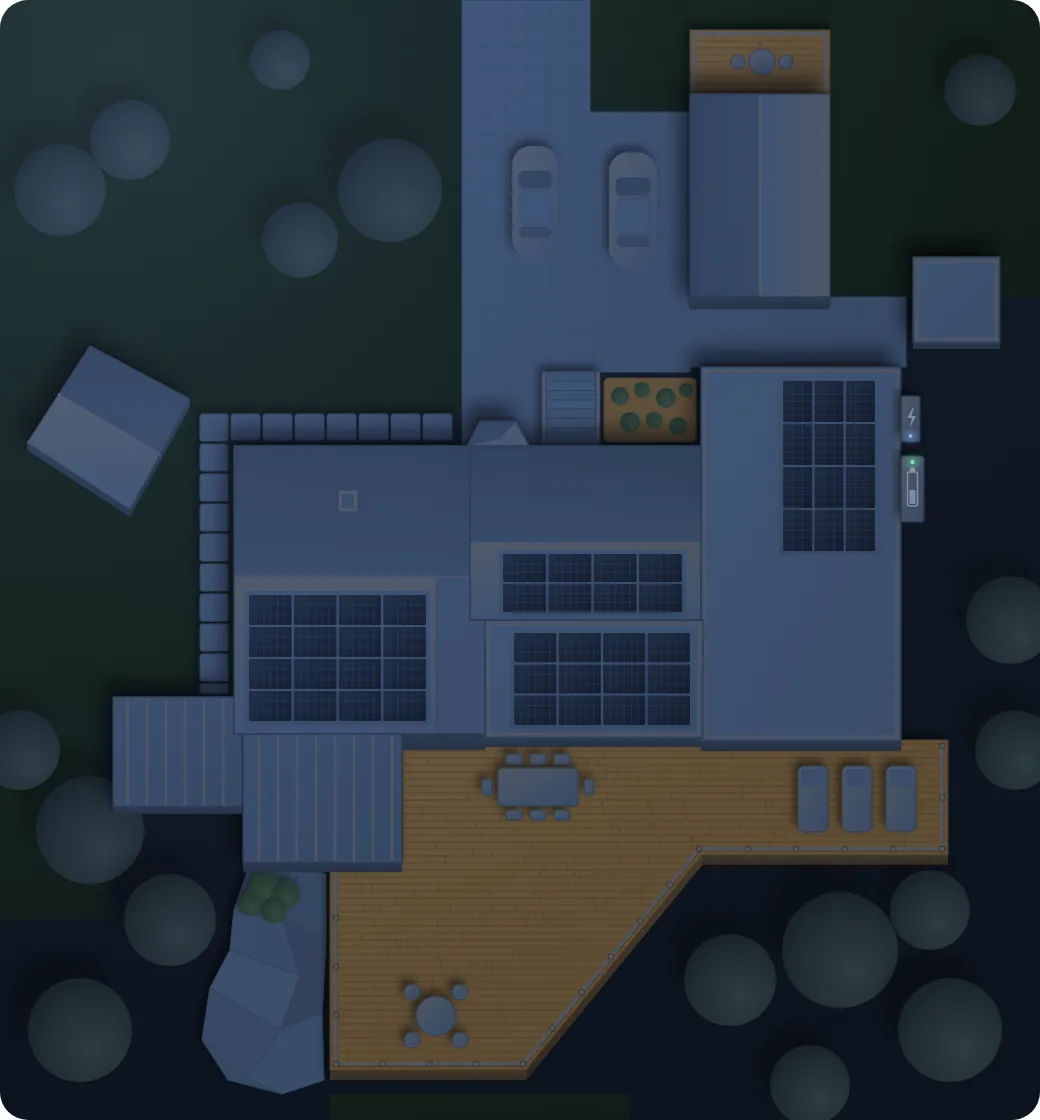
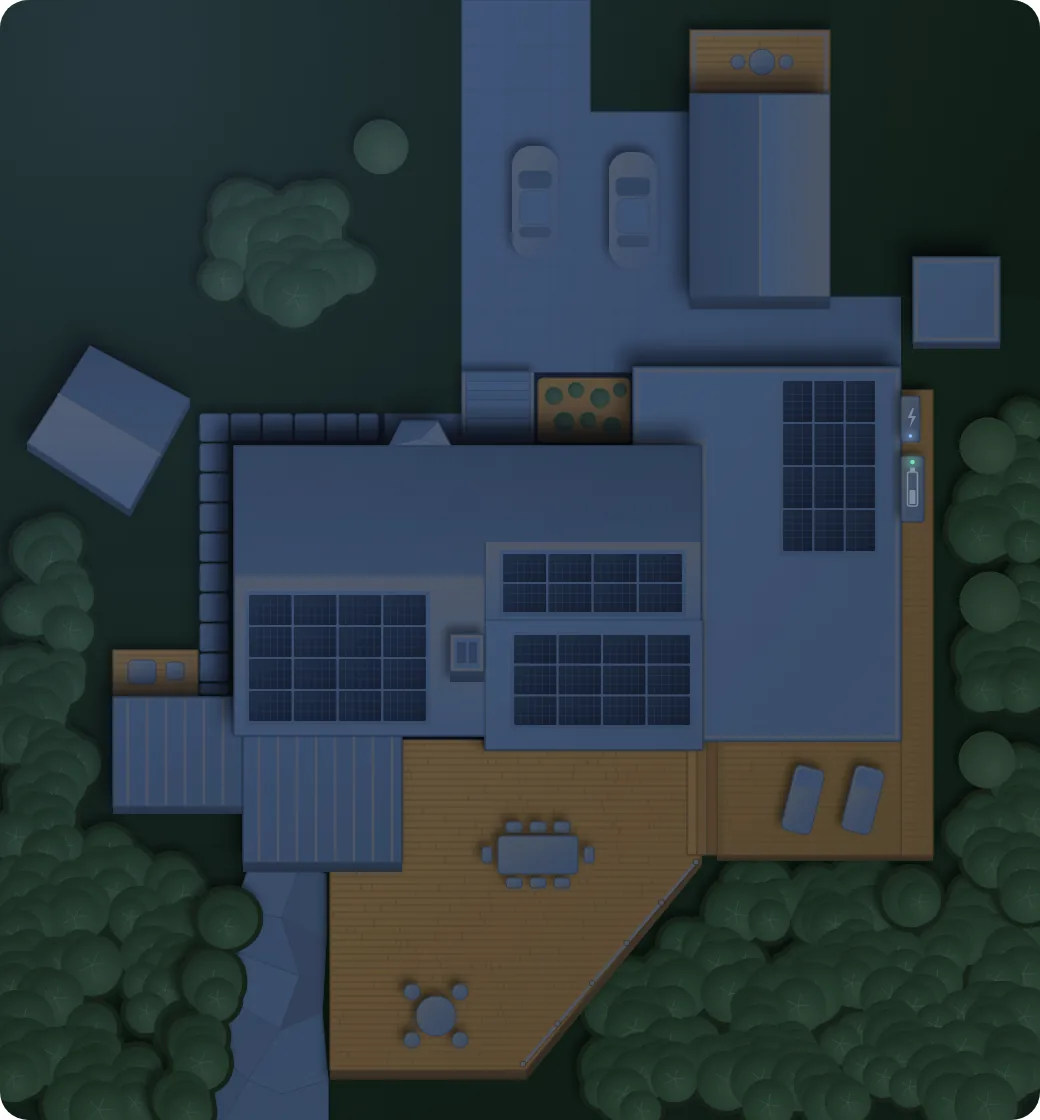
v813: nya husbilder; fönster och deras ljus döljs under taken
Ägarens uppdaterade dag- och nattbild (poolrummet större, däck på östra
sidan, nya träd). Takens konturer (HUS_TAK) används som mask för ljuset från
fönster och glasdörrar: skenet ritas bara utanför taken, så ett fönster som
ligger lite indraget hamnar under taket. Redigeraren använder samma mask.

Claude-Session: https://claude.ai/code/session_012MMThXfJhAShsvner6HS5D

diff --git a/js/start.js b/js/start.js
@@ -2611,7 +2611,7 @@ var _beType='dev',_beIcon=null,_beLabel=null,_beDev=null,_beAct=null,_beFlow=nul
 var _beIdx=null;
 
 /* ===== konfiguration (kugghjulet uppe till höger, sedan v675) ===== */
-const APP_VERSION='v812';
+const APP_VERSION='v813';
 const CFG_DEF={paNu:true,wxRubrik:true,wxRubrikPl:false,theme:'auto',scenario:0,glowmul:0.2,glowsharp:0.25,sharpV:2,night:0,nclock:'on',nclockOffset:0,krcOp:0.42,battkwh:24,showspot:true,sync:true,autoreload:true,
   priceGreen:0.20,priceRed:0.80,priceMoms:0,prisPaslag:0,shareLayout:true,
   /* Nollvärdena är de inställningar som visat sig fungera på plattan, inte
@@ -3252,6 +3252,17 @@ var HUS_GLASTAK=[
 /* Kioskläget i index2: en beröring var som helst visar menyn en stund. */
 var _husMenyT=null;
 try{document.addEventListener('pointerdown',function(){try{husMenyVisa();}catch(e){}},true);}catch(e){}
+/* TAKEN, för fönsterljuset: ljuset från fönster och glasdörrar ritas bara
+   utanför taken, så att ett fönster som ligger lite indraget hamnar under
+   taket med sitt sken. Polygon (punkter) eller rektangel [x,y,b,h]. */
+var HUS_TAK=[
+  {p:'233,445 702,445 702,748 485,748 485,737 233,737'},   /* stora huset */
+  {r:[632,367,268,374]},                                    /* poolrummet */
+  {r:[242,735,160,130]},{r:[112,697,130,113]},              /* uterummets glastak */
+  {r:[690,93,140,204]},                                     /* Breveden (inte altanen) */
+  {r:[912,257,88,88]},                                      /* boden */
+  {p:'89,345 190,399 131,514 27,449'}                       /* Snickarboa */
+];
 /* Utebelysningen står i Brevedens zon men lyser inte genom något fönster. */
 var HUS_EJ_FONSTER={'e8a72bb3-bb7b-4022-b6f3-6981fff72bfe':1};
 

diff --git a/js/huset.js b/js/huset.js
@@ -113,6 +113,12 @@ function husLjusBygg(el,svg,NS){
   var fl=ny('filter',{id:'hus-mjuk',x:'-30%',y:'-30%',width:'160%',height:'160%'});
   fl.appendChild(ny('feGaussianBlur',{stdDeviation:'7'}));
   defs.appendChild(fl);
+  /* Taken som mask: vitt = ljus syns, svart (taken) = ljus döljs. */
+  var mk=ny('mask',{id:'hus-tak-mask',maskUnits:'userSpaceOnUse',x:'0',y:'0',width:'1040',height:'1120'});
+  mk.appendChild(ny('rect',{x:0,y:0,width:1040,height:1120,fill:'#fff'}));
+  (typeof HUS_TAK!=='undefined'?HUS_TAK:[]).forEach(function(t){
+    mk.appendChild(t.p?ny('polygon',{points:t.p,fill:'#000'}):ny('rect',{x:t.r[0],y:t.r[1],width:t.r[2],height:t.r[3],fill:'#000'}));});
+  defs.appendChild(mk);
   svg.appendChild(defs);
   var lj=ny('g',{'class':'hus-ljus'});
   var ute=ny('g',{'class':'hus-ute'});
@@ -165,12 +171,14 @@ function husLjusBygg(el,svg,NS){
     fg.appendChild(ny('rect',{x:-2.5,y:-h,width:5,height:w,rx:1.5,fill:'#ffe6b3'}));
     g.appendChild(fg);
   }
+  /* Fönstren i en egen grupp som maskas av taken. */
+  var fonGrp=ny('g',{mask:'url(#hus-tak-mask)'});lj.appendChild(fonGrp);
   HUS_FONSTER.forEach(function(f){
     var grupper={};
     f.p.forEach(function(p){
       var egna=(p[4]&&p[4].length)?p[4]:null,nyckel=egna?egna.join('|'):'';
       if(!grupper[nyckel]){
-        var g=ny('g',{'class':'hus-fonster'});lj.appendChild(g);
+        var g=ny('g',{'class':'hus-fonster'});fonGrp.appendChild(g);
         var kalla=egna?{ids:egna.map(function(n){return HUS_LAMPOR[n];}).filter(Boolean)}:(HUS_RUM[f.rum]||{});
         grupper[nyckel]=g;kallor.push({kalla:kalla,g:g,fonster:true});}
       fonster(grupper[nyckel],p);});

diff --git a/hus-redigera.html b/hus-redigera.html
@@ -150,8 +150,8 @@ fetch('js/start.js',{cache:'no-store'}).then(function(r){return r.text();}).then
   var a=t.indexOf('/* ---------- [huset.js] ---------- */'),b=t.indexOf('/* ---------- [',a+10);
   if(a<0||b<0)throw new Error('Hittar inte [huset.js] i start.js');
   var sek=t.slice(a,b);BAS_ID=hash(sek);
-  BAS=new Function(sek+';return {UTE:HUS_UTE,FONSTER:HUS_FONSTER,GLASTAK:HUS_GLASTAK,RUM:HUS_RUM,FALT:HUS_FALT,LAMPOR:HUS_LAMPOR};')();
-  window.HUS_RUM=BAS.RUM;window.HUS_GLASTAK=BAS.GLASTAK;window.HUS_LAMPOR=BAS.LAMPOR;
+  BAS=new Function(sek+';return {UTE:HUS_UTE,FONSTER:HUS_FONSTER,GLASTAK:HUS_GLASTAK,RUM:HUS_RUM,FALT:HUS_FALT,LAMPOR:HUS_LAMPOR,TAK:(typeof HUS_TAK!=="undefined"?HUS_TAK:[])};')();
+  window.HUS_RUM=BAS.RUM;window.HUS_GLASTAK=BAS.GLASTAK;window.HUS_LAMPOR=BAS.LAMPOR;window.HUS_TAK=BAS.TAK;
   $('prova').innerHTML='<option value="">Allt tänt</option>'+Object.keys(BAS.LAMPOR).map(function(n){
     return '<option value="'+esc(n)+'">'+esc(n.replace('/',' · '))+'</option>';}).join('');
   var sparat=null;try{sparat=JSON.parse(localStorage.getItem(NYCKEL)||'null');}catch(e){}
